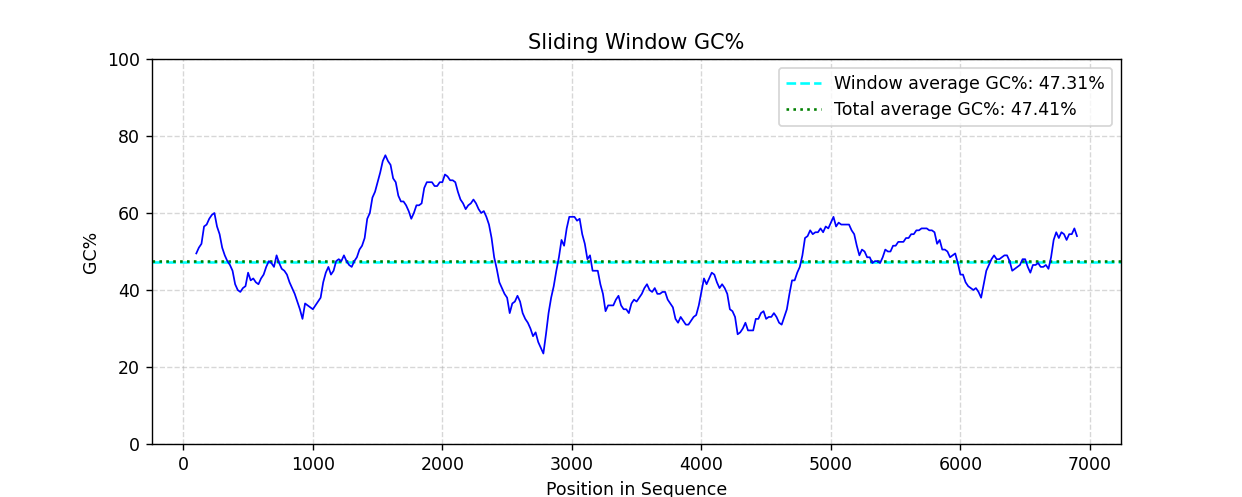
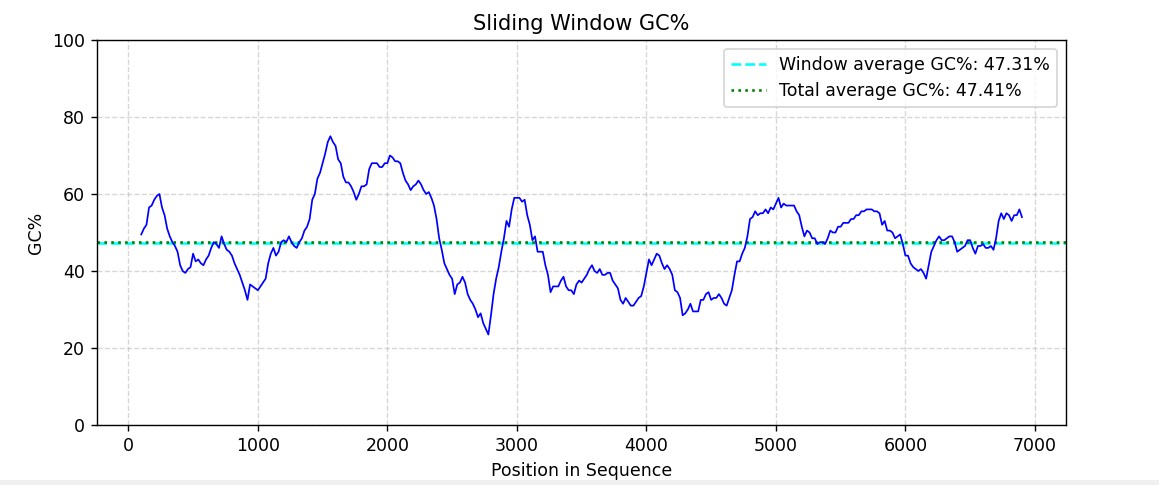
update README

diff --git a/README.md b/README.md
@@ -18,16 +18,18 @@ omiBio (omiBioKit) is an open-source Python 3 package that is lightweight, easy 
 from omibio.analysis import sliding_gc, draw_sliding_gc
 from omibio.io import read
 
-seq_dict = read("./example.fasta")
-dna: Sequence = seq_dict["example"]
+seq_dict = read("./example.fasta")  # Reading FASTA file
+dna: Sequence = seq_dict["example"]  # Get Sequence
 
-gc_list = sliding_gc(dna, window=200, step=20)
-draw_sliding_gc(gc_list, seq=dna, window_avg=True)
+gc_list = sliding_gc(dna, window=200, step=20)  # Get GC data from the sliding window
+draw_sliding_gc(gc_list, seq=dna, window_avg=True)  # Visualization
 
 ```
 The above code will produce the following result:
 ___
-![Example](examples/assets/sliding_gc_viz_demo.png)
+<p align="center">
+  <img src="examples/assets/sliding_gc_viz_demo.png" alt="Example" width="800"/>
+</p>
 
 ## Installation
 
